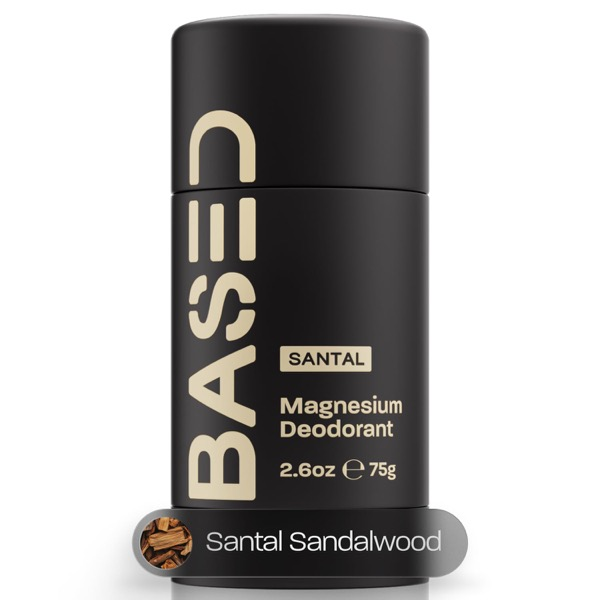
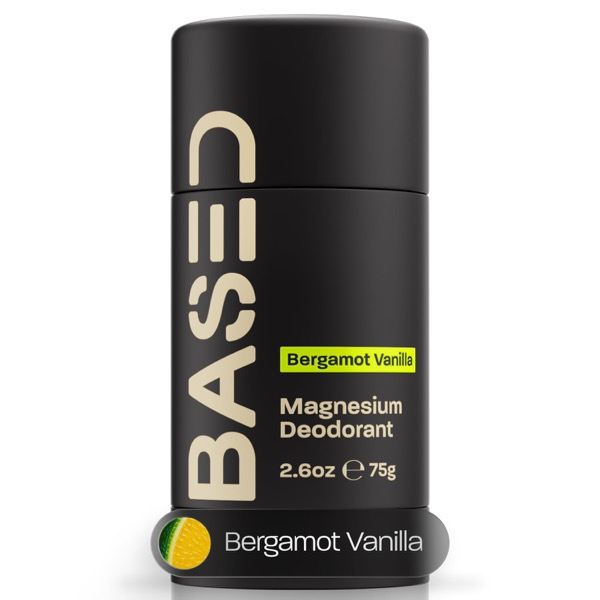
Deodorant: Bergamot Vanilla

diff --git a/src/data/initialWishlist.js b/src/data/initialWishlist.js
@@ -186,13 +186,14 @@ export const DEFAULT_WISHLIST = [
   },
   {
     id: "g_based_deodorant",
-    title: "BASED Performance Deodorant - Santal Sandalwood",
+    mustGet: "BERGAMOT VANILLA scent",
+    title: "BASED Performance Deodorant - Bergamot Vanilla",
     price: 18,
     category: "Everyday Essentials",
     closenessRequired: "casual",
     priority: "High Wish ❤",
     imageUrl: "/products/based_deodorant.jpg",
-    url: "https://www.amazon.com/dp/B0DSZ2MF94",
+    url: "https://www.amazon.com/dp/B0DSYV8LVQ",
     description: "BASED aluminum-free deodorant with magnesium, beeswax and shea butter.",
     claimed: false,
     claimedBy: "",

diff --git a/src/App.jsx b/src/App.jsx
@@ -8,10 +8,10 @@ import Snowfall from './components/Snowfall';
 import { DEFAULT_WISHLIST } from './data/initialWishlist';
 import { Lock, KeyRound } from 'lucide-react';
 
-const WISHLIST_STORAGE_KEY = 'festive_gift_quiz_items_v15';
+const WISHLIST_STORAGE_KEY = 'festive_gift_quiz_items_v16';
 const OWNER_NAME_STORAGE_KEY = 'festive_gift_quiz_owner_v1';
 // Bump when DEFAULT_WISHLIST changes: merges new defaults into the shared list, keeping claims and admin-added items.
-const DATA_VERSION = 4;
+const DATA_VERSION = 5;
 const SYNC_URL = '/api/state';
 const POLL_MS = 15000;
 const ADMIN_PASSWORD = '01015';

diff --git a/HANDOFF.md b/HANDOFF.md
@@ -29,4 +29,4 @@ Caveats: no auth on PUT (guests must be able to claim); after first deploy, defa
 Hair Elixir 25, Curl Refresh Spray 18.99, Leave-In 18, Under Eye Elixir 28, Facial Cleanser 20, Facial Moisturizer 20, Deodorant 18 (Santal Sandalwood - scent is a guess; other listings: Bergamot Vanilla B0DSYV8LVQ, Guava Nectar B0DSYP494S). All prices verified on Amazon listings. Lotion now links the Amber listing (B0H6R9W7LX). User excluded: texture powder, sea salt spray, clay, pomade, shampoo, conditioner, skin revival spray (and bundles containing them). Tallow Moisturizer is sold out on brand site / not found on Amazon - skipped. DATA_VERSION 3, storage key v14.
 
 ## Update (committed locally, NOT pushed)
-Removed again at owner's request: Daily Facial Cleanser, Daily Facial Moisturizer, Leave-In Conditioner, Curl Refresh Spray (cleanser+moisturizer are already covered by the Daily Skincare Duo). Added BASED Multi-Active Skin Elixir ($40, 1 bottle, https://based.com/products/skin-elixir, not on Amazon; "Please get 1 BOTTLE" pop-up). DATA_VERSION 4, key v15. Other BASED non-bundle products not added: Scalp Scrubber $20, White Face Towel $20, Toiletry Bag $50 (owner hasn't asked). Deodorant scent still unconfirmed.
+Removed again at owner's request: Daily Facial Cleanser, Daily Facial Moisturizer, Leave-In Conditioner, Curl Refresh Spray (cleanser+moisturizer are already covered by the Daily Skincare Duo). Added BASED Multi-Active Skin Elixir ($40, 1 bottle, https://based.com/products/skin-elixir, not on Amazon; "Please get 1 BOTTLE" pop-up). DATA_VERSION 4, key v15. Other BASED non-bundle products not added: Scalp Scrubber $20, White Face Towel $20, Toiletry Bag $50 (owner hasn't asked). Deodorant is now Bergamot Vanilla (B0DSYV8LVQ), confirmed by owner; owner declined scrubber, towel, bag. DATA_VERSION 5, key v16.
